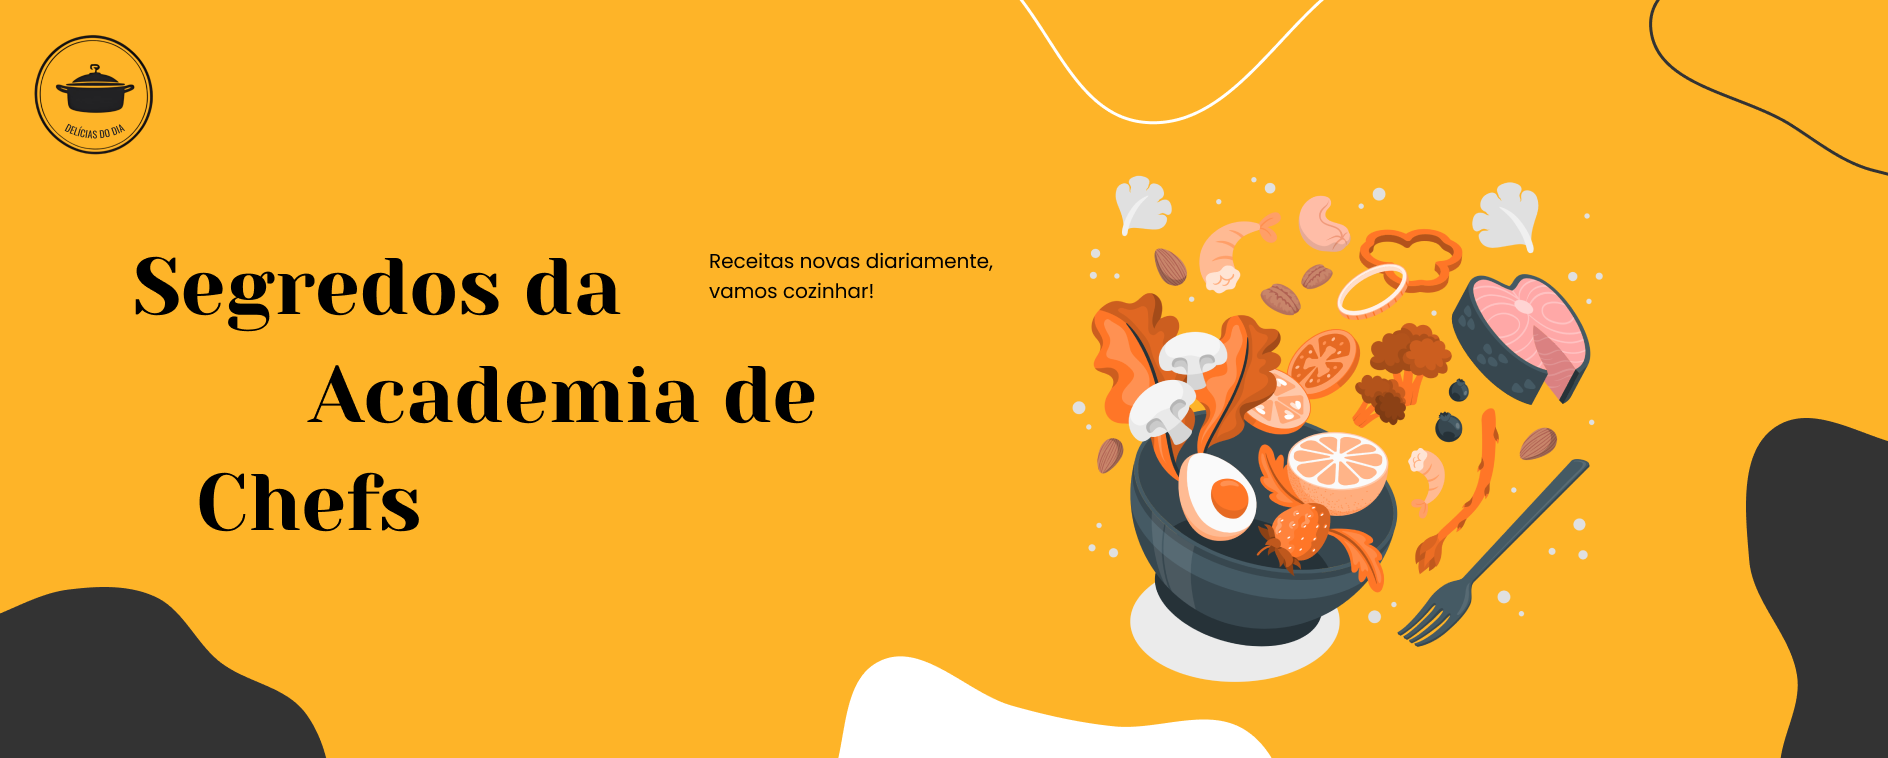
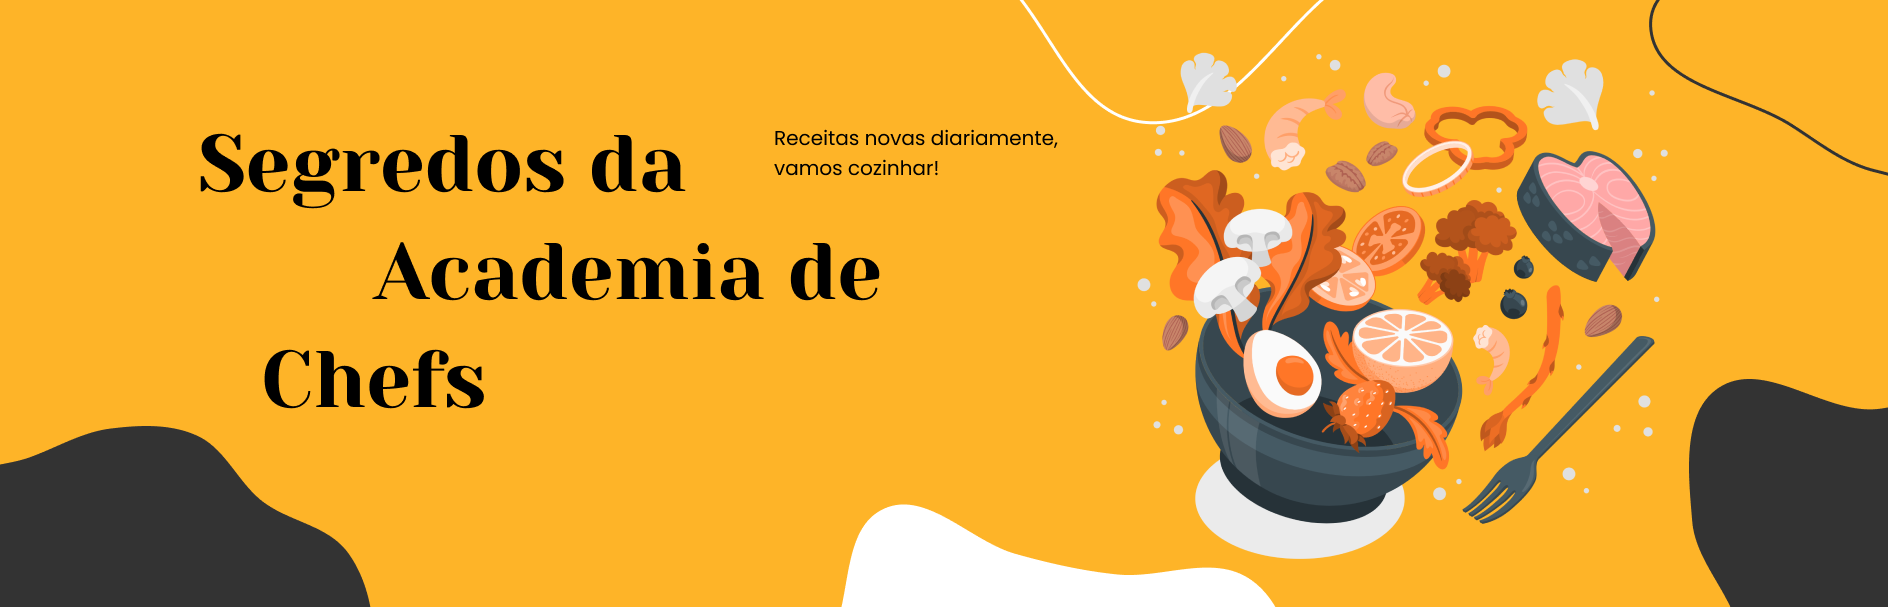
feat: ajuste da pagina de minhas receitas e modal de deletar

diff --git a/src/app/myRecipes/page.js b/src/app/myRecipes/page.js
@@ -2,23 +2,38 @@
 
 import { useEffect, useState } from "react";
 import Menu from "../components/Menu";
-import Card from "../components/Card";
 import Search from "../components/Search";
-import Link from "next/link";
+import MyCard from "../components/MyCard";
 
 import { getRecipeByCategory } from "@/util/apiRecipe";
 import { getCategories } from "@/util/apiCategory";
+import DeleteModal from "../components/DeleteModal";
 
+export default function MyRecipesPagina() {
+	const [isModalOpen, setModalOpen] = useState(false);
+	const [selectedRecipeId, setSelectedRecipeId] = useState(null);
 
-export default function AllRecipesPagina() {
+	const handleDeleteClick = (id) => {
+		setSelectedRecipeId(id);
+		setModalOpen(true);
+	};
+
+	const handleConfirmDelete = () => {
+		console.log('Deletando receita com ID:', selectedRecipeId);
+		setModalOpen(false);
+	};
+
+	const handleCloseModal = () => {
+		setModalOpen(false);
+		setSelectedRecipeId(null);
+	};
 
 	const [selectedCategory, setSelectedCategory] = useState('');
-
 	const [recipes, setRecipes] = useState(null);
+
 	useEffect(() => {
-		getRecipeByCategory(selectedCategory)
-			.then((data) => setRecipes(data))
-	}, [selectedCategory])
+		getRecipeByCategory(selectedCategory).then((data) => setRecipes(data));
+	}, [selectedCategory]);
 
 	const [categories, setCategories] = useState(null);
 	useEffect(() => {
@@ -32,7 +47,13 @@ export default function AllRecipesPagina() {
 	};
 
 	return (
-		<main>
+		<main className="px-16">
+			<DeleteModal
+				isOpen={isModalOpen}
+				onClose={handleCloseModal}
+				onConfirm={handleConfirmDelete}
+			/>
+
 			<Search setRecipes={setRecipes} setSelectedCategory={setSelectedCategory} />
 
 			<div className="flex gap-10">
@@ -47,11 +68,9 @@ export default function AllRecipesPagina() {
 				</aside>
 
 				<section className="grid grid-cols-1 gap-4 w-full h-full md:grid-cols-2 lg:grid-cols-3 xl:grid-cols-4">
-					{recipes ? (recipes.map((recipe) => (
-						<Link className="justify-center flex" key={recipe.id} href={"/recipe/?id=" + recipe.id}>
-							<Card key={recipe.id} {...recipe} />
-						</Link>
-					))) : <p>Loading</p>}
+					{recipes ? recipes.map((recipe) => (
+						<MyCard key={recipe.id} {...recipe} onDelete={() => handleDeleteClick(recipe.id)} />
+					)) : 'Loading...'}
 				</section>
 			</div>
 		</main>

diff --git a/src/app/components/DeleteModal.jsx b/src/app/components/DeleteModal.jsx
@@ -1,0 +1,34 @@
+'use client'
+
+export default function DeleteModal({ isOpen, onClose, onConfirm }) {
+	if (!isOpen) return null;
+
+	return (
+		<div id="popup-modal" tabIndex="-1" className="fixed top-0 left-0 right-0 z-50 flex justify-center items-center w-full h-full bg-black bg-opacity-50">
+			<div className="relative p-4 w-full max-w-md max-h-full">
+				<div className="relative bg-white rounded-lg shadow">
+					<button type="button" onClick={onClose} className="absolute top-3 right-2.5 text-gray-400 bg-transparent hover:bg-gray-200 hover:text-gray-900 rounded-lg text-sm w-8 h-8 flex justify-center items-center">
+						<svg className="w-3 h-3" aria-hidden="true" xmlns="http://www.w3.org/2000/svg" fill="none" viewBox="0 0 14 14">
+							<path stroke="currentColor" strokeLinecap="round" strokeLinejoin="round" strokeWidth="2" d="m1 1 6 6m0 0 6 6M7 7l6-6M7 7l-6 6"/>
+						</svg>
+						<span className="sr-only">Fechar</span>
+					</button>
+					<div className="p-4 md:p-5 text-center">
+						<svg className="mx-auto mb-4 text-yellow w-12 h-12" aria-hidden="true" xmlns="http://www.w3.org/2000/svg" fill="none" viewBox="0 0 20 20" >
+							<path stroke="currentColor" strokeLinecap="round" strokeLinejoin="round" strokeWidth="2" d="M10 11V6m0 8h.01M19 10a9 9 0 1 1-18 0 9 9 0 0 1 18 0Z"/>
+						</svg>
+						<h3 className="mb-5 text-lg font-normal text-black">
+							Deseja deletar essa receita?
+						</h3>
+						<button onClick={onConfirm} className="text-white bg-red-600 hover:bg-red-800 focus:ring-4 focus:outline-none font-medium rounded-lg text-sm inline-flex items-center px-5 py-2.5 text-center">
+							Sim, eu quero
+						</button>
+						<button onClick={onClose} className="py-2.5 px-5 ml-3 text-sm font-medium text-gray-900 focus:outline-none bg-white rounded-lg border border-gray-200 hover:bg-gray-100 hover:text-yellow">
+							Não, cancelar
+						</button>
+					</div>
+				</div>
+			</div>
+		</div>
+	);
+}

diff --git a/src/app/components/MyCard.jsx b/src/app/components/MyCard.jsx
@@ -1,0 +1,49 @@
+'use client';
+
+import { UserIcon, ClockIcon, TrashIcon, PencilIcon } from '@heroicons/react/24/solid';
+import { useRouter } from "next/navigation";
+
+export default function MyCard({ name, prepTimeMinutes, servings, imageUrl, onDelete }) {
+	const router = useRouter();
+
+	return (
+		<div className="max-w-sm bg-white rounded-lg shadow-xl w-80 h-80 md:h-[392px]">
+			<div className="p-4">
+				<img className="rounded-lg h-32 w-80 object-cover" src={imageUrl} alt="" />
+			</div>
+			<div className="px-4">
+				<h5 className="mb-5 font-bold text-xl text-black truncate overflow-hidden whitespace-nowrap w-56">{name}</h5>
+				<div className="grid grid-cols-2 gap-8 md:grid-cols-1 md:gap-5">
+					<div className="border-e border-gray md:border-0">
+						<h6 className="font-semibold text-sm mb-2">Quantidade</h6>
+						<p className="flex text-sm">
+							<UserIcon className="h-5 w-5 mr-1" />
+							{servings} Porções
+						</p>
+					</div>
+					<div>
+						<h6 className="font-semibold text-sm mb-2">Tempo</h6>
+						<p className="flex text-sm">
+							<ClockIcon className="h-5 w-5 mr-1" />
+							{prepTimeMinutes} Minutos
+						</p>
+					</div>
+				</div>
+			</div>
+			<div className="px-4 flex justify-end gap-2 mt-4">
+				<button
+					onClick={onDelete}
+					className="p-2 bg-red-100 rounded-full hover:bg-red-200"
+				>
+					<TrashIcon className="h-5 w-5 text-red-500" />
+				</button>
+				<button
+					onClick={() => router.push('/sendRecipe')}
+					className="p-2 bg-blue-100 rounded-full hover:bg-blue-200"
+				>
+					<PencilIcon className="h-5 w-5 text-blue-500" />
+				</button>
+			</div>
+		</div>
+	);
+}

diff --git a/src/app/page.js b/src/app/page.js
@@ -10,6 +10,7 @@ import Link from "next/link";
 
 import { getRecipeByCategory } from "@/util/apiRecipe";
 import { getCategories } from "@/util/apiCategory";
+import Banner from "./components/Banner";
 
 export default function Home() {
 
@@ -33,8 +34,10 @@ export default function Home() {
   };
 
   return (
-    <body>
-      <main>
+    <main>
+      <Banner />
+
+      <div className="px-16">
         <Search setRecipes={setRecipes} setSelectedCategory={setSelectedCategory} />
 
         <div className="flex gap-10">
@@ -56,7 +59,7 @@ export default function Home() {
             ))) : <p>Loading</p>}
           </section>
         </div>
-      </main>
-    </body>
+      </div>
+    </main>
   );
 }

diff --git a/src/app/recipe/page.js b/src/app/recipe/page.js
@@ -1,6 +1,5 @@
 'use client'
 
-import Link from "next/link";
 import { getRecipeById } from "@/util/apiRecipe";
 import { useSearchParams } from "next/navigation";
 import { useEffect, useState } from "react";
@@ -50,7 +49,7 @@ export default function RecipePagina() {
   };
 
   return (
-    <main>
+    <main className="px-16">
       <section>
         <h1>{recipe.name}</h1>
         <p className="font-normal my-6">{recipe.description}</p>

diff --git a/src/app/layout.js b/src/app/layout.js
@@ -1,4 +1,3 @@
-// import Banner from "./components/Banner";
 import Footer from "./components/Footer";
 import Header from "./components/Header";
 import "./globals.css";
@@ -22,7 +21,6 @@ export default function RootLayout({ children }) {
       </head>
       <body>
         <Header />
-        {/* <Banner /> */}
         {children}
         <Footer />
       </body>

diff --git a/src/app/components/Header.jsx b/src/app/components/Header.jsx
@@ -6,7 +6,7 @@ import Image from 'next/image';
 
 const navigation = [
   { name: 'Home', href: '/' },
-  { name: 'Receitas', href: '/allRecipes' },
+  { name: 'Minhas Receitas', href: '/myRecipes' },
   { name: 'Enviar Receita', href: '/sendRecipe' },
 ];
 

diff --git a/src/app/sendRecipe/page.js b/src/app/sendRecipe/page.js
@@ -57,7 +57,7 @@ export default function SendRecipePagina() {
 	};
 
 	return (
-		<main>
+		<main className="px-16">
 			<section>
 				<h1>Envie sua receita</h1>
 

diff --git a/src/app/globals.css b/src/app/globals.css
@@ -12,10 +12,6 @@ body {
   background-color: #F9F8F8;
 }
 
-main {
-  padding-inline: 64px;
-}
-
 h1 {
   font-family: 'Yeseva One';
   font-size: 50px;
